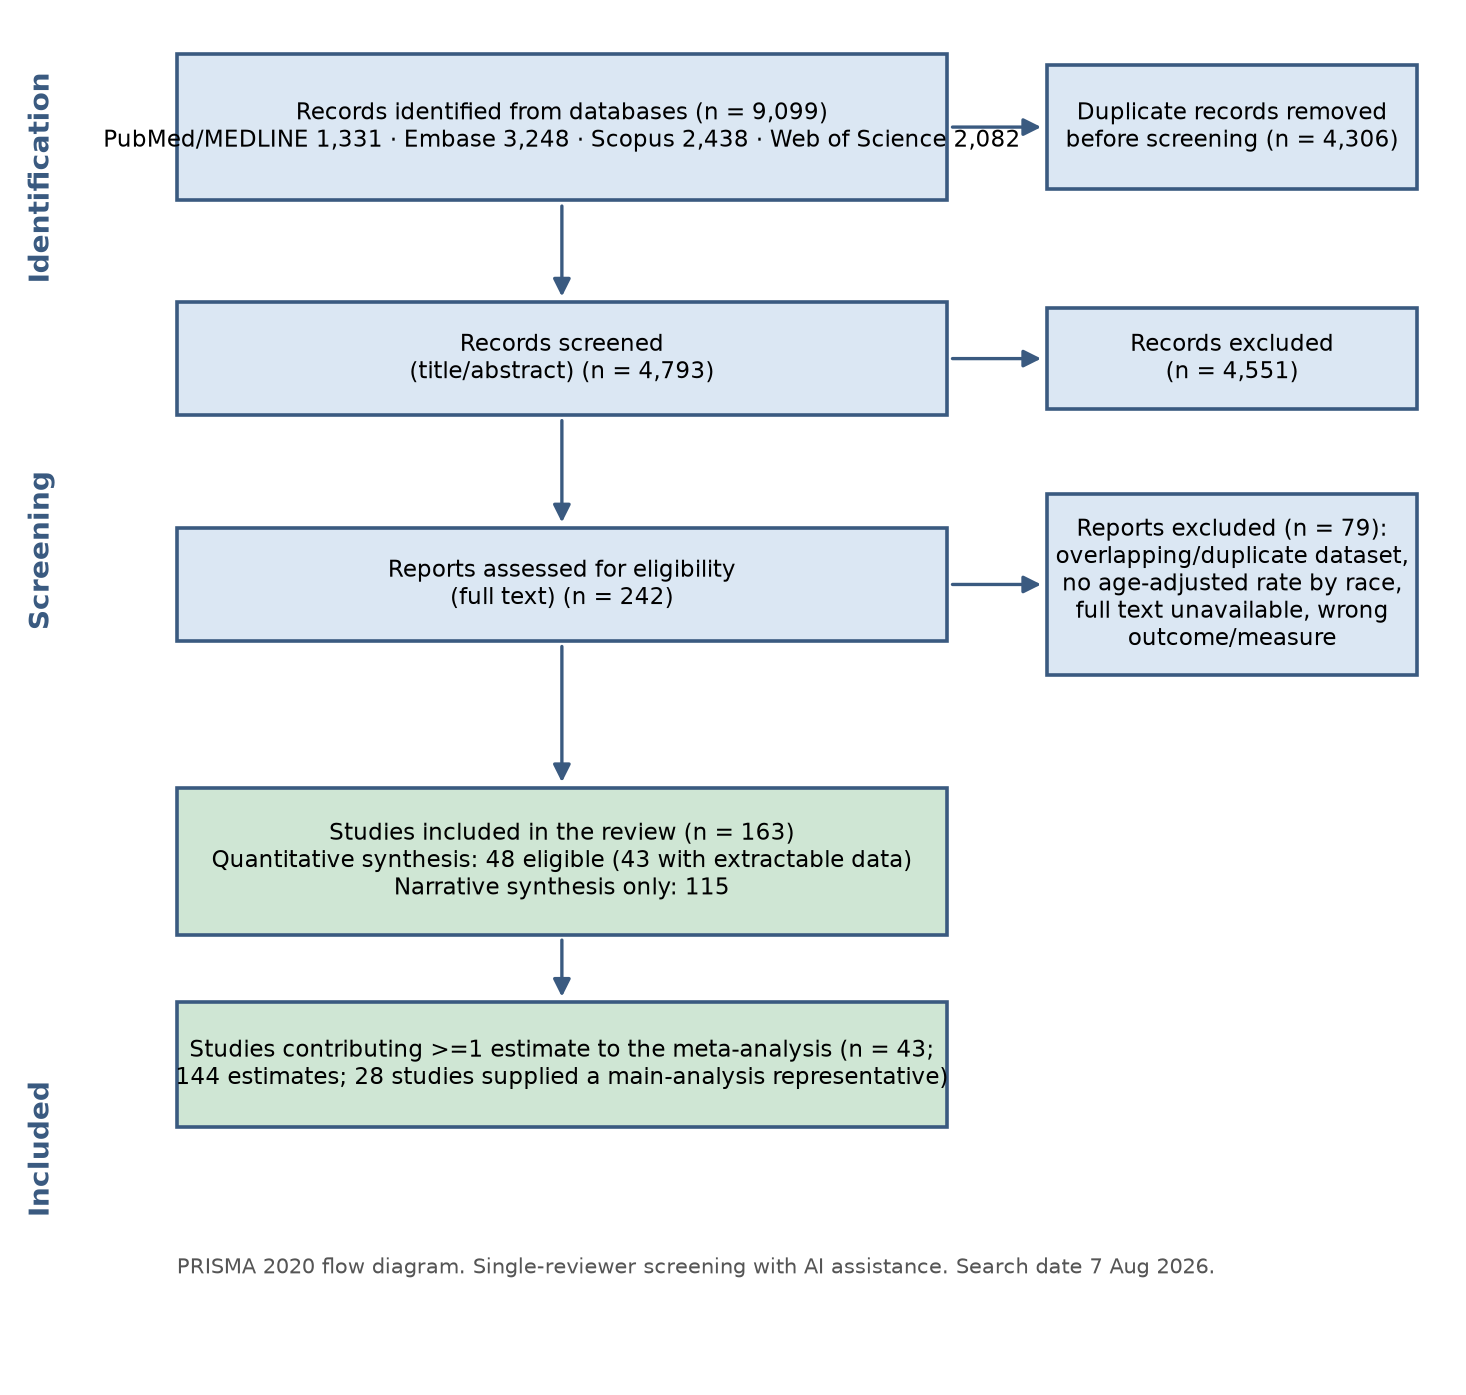
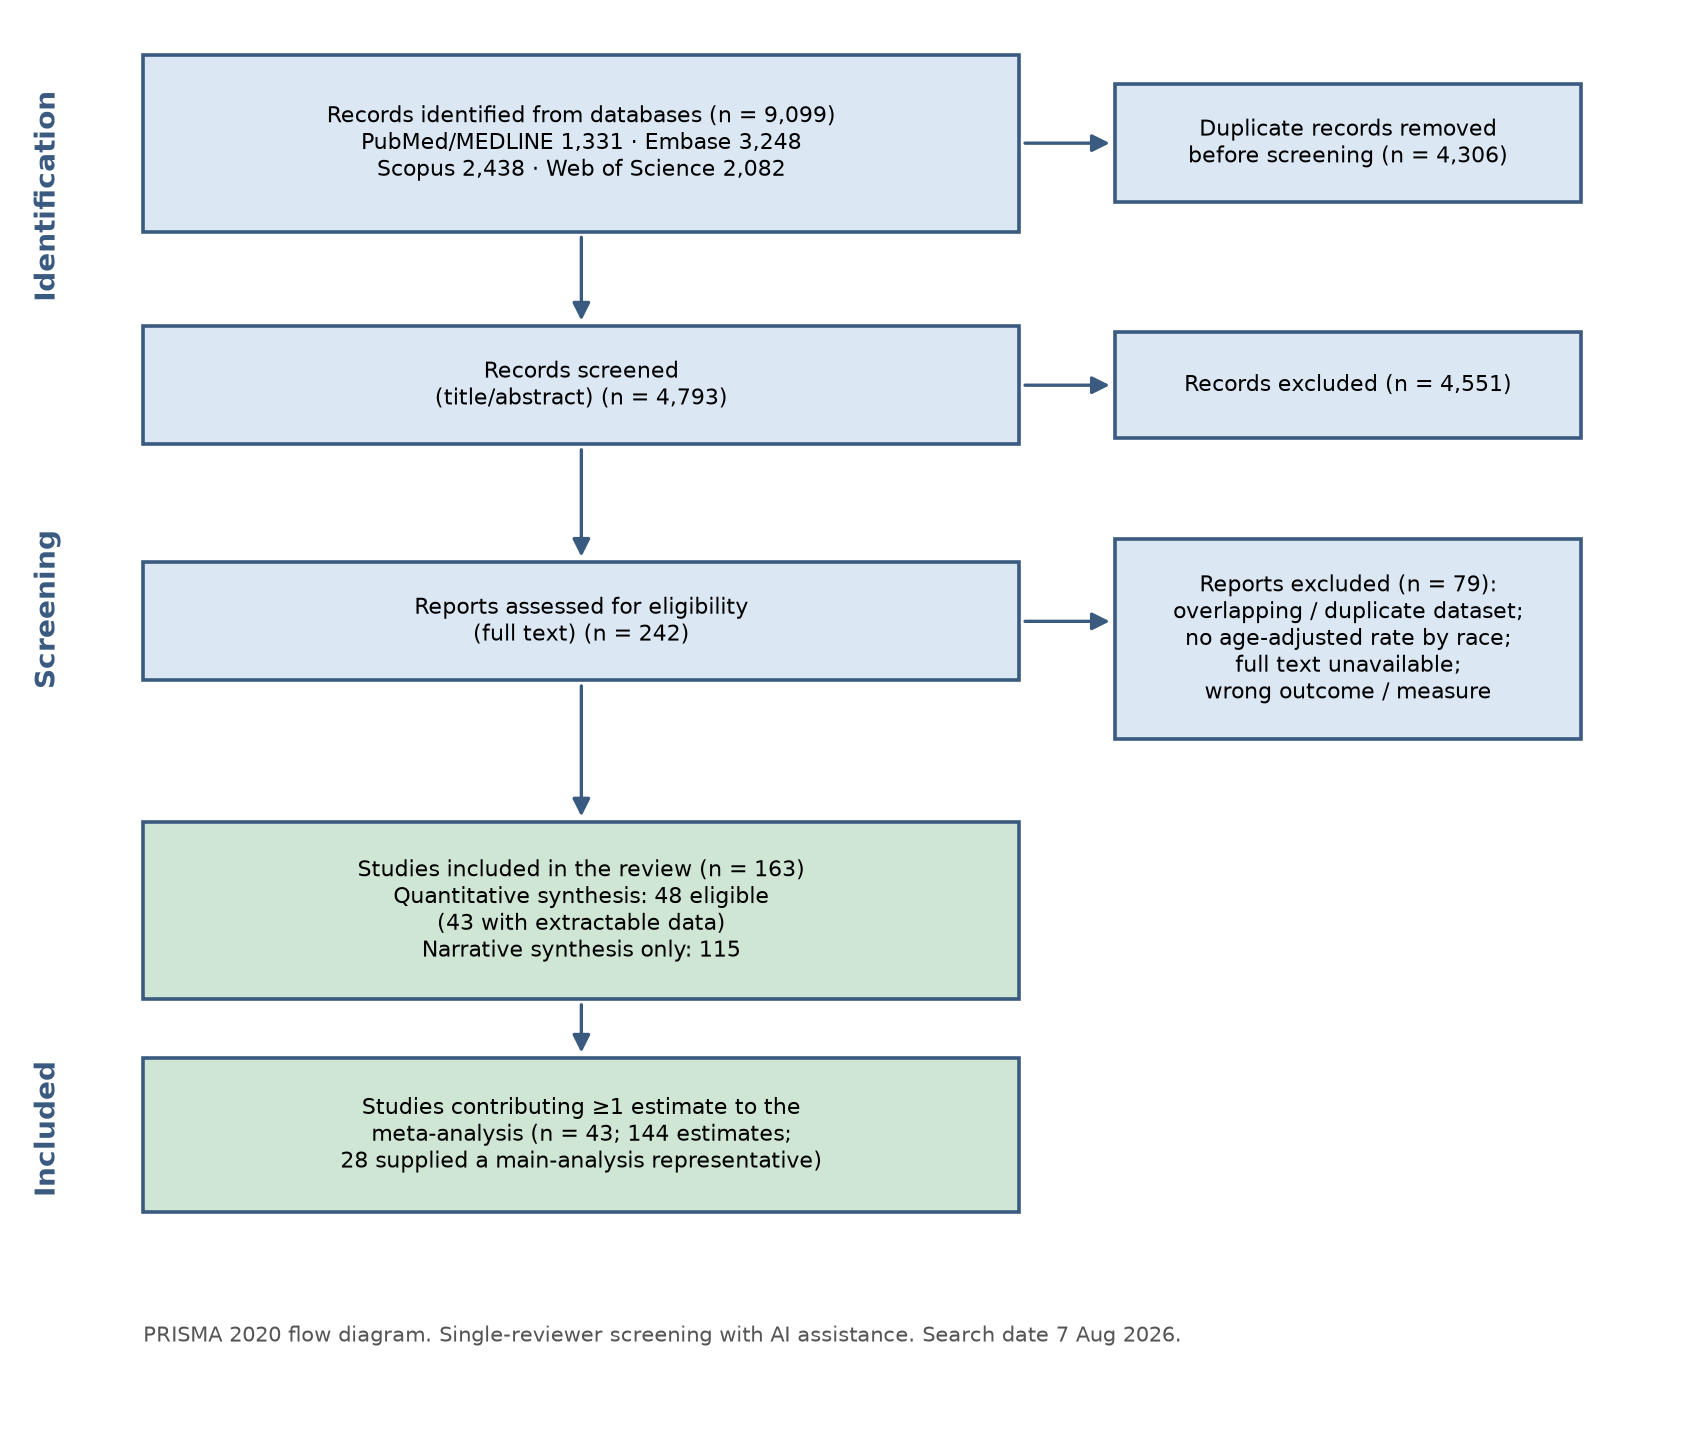
Fix PRISMA figure: wrap text inside boxes (no overflow)
Split the database-breakdown line to two rows, widened boxes/figure, reduced
font, used the >= glyph, and gave the exclusion and included boxes more height so
all text stays within box borders.

Claude-Session: https://claude.ai/code/session_01CuLT4FKRBtsU22Vwfjj2qn

diff --git a/meta_agents/search_v2/prisma_flow.py b/meta_agents/search_v2/prisma_flow.py
@@ -26,48 +26,54 @@ def arrow(ax, x1, y1, x2, y2):
 
 
 def main():
-    fig, ax = plt.subplots(figsize=(9.2, 8.8))
-    ax.set_xlim(0, 10); ax.set_ylim(0, 12); ax.axis("off")
+    fig, ax = plt.subplots(figsize=(10.6, 9.2))
+    ax.set_xlim(0, 12); ax.set_ylim(0, 12); ax.axis("off")
 
     # stage labels (left rotated)
-    for y, lab in [(10.6, "Identification"), (7.3, "Screening"), (2.0, "Included")]:
-        ax.text(0.15, y, lab, rotation=90, va="center", ha="center",
+    for y, lab in [(10.5, "Identification"), (7.0, "Screening"), (2.6, "Included")]:
+        ax.text(0.2, y, lab, rotation=90, va="center", ha="center",
                 fontsize=10, fontweight="bold", color=EDGE)
 
     # main column x, right column x
-    mx, mw = 1.1, 5.4
-    rx, rw = 7.2, 2.6
+    mx, mw = 0.9, 6.4
+    rx, rw = 8.0, 3.4
+    FS = 8.0
 
-    box(ax, mx, 10.4, mw, 1.3,
-        "Records identified from databases (n = 9,099)\n"
-        "PubMed/MEDLINE 1,331 · Embase 3,248 · Scopus 2,438 · Web of Science 2,082")
-    box(ax, rx, 10.5, rw, 1.1, "Duplicate records removed\nbefore screening (n = 4,306)")
-    arrow(ax, mx + mw, 11.05, rx, 11.05)
+    def b(x, y, w, h, t, fc=BLUE):
+        ax.add_patch(Rectangle((x, y), w, h, facecolor=fc, edgecolor=EDGE, lw=1.3, zorder=2))
+        ax.text(x + w / 2, y + h / 2, t, ha="center", va="center", fontsize=FS, zorder=3)
 
-    box(ax, mx, 8.5, mw, 1.0, "Records screened\n(title/abstract) (n = 4,793)")
-    arrow(ax, mx + mw / 2, 10.4, mx + mw / 2, 9.5)
-    box(ax, rx, 8.55, rw, 0.9, "Records excluded\n(n = 4,551)")
-    arrow(ax, mx + mw, 9.0, rx, 9.0)
+    b(mx, 10.2, mw, 1.5,
+      "Records identified from databases (n = 9,099)\n"
+      "PubMed/MEDLINE 1,331 · Embase 3,248\n"
+      "Scopus 2,438 · Web of Science 2,082")
+    b(rx, 10.45, rw, 1.0, "Duplicate records removed\nbefore screening (n = 4,306)")
+    arrow(ax, mx + mw, 10.95, rx, 10.95)
 
-    box(ax, mx, 6.5, mw, 1.0, "Reports assessed for eligibility\n(full text) (n = 242)")
-    arrow(ax, mx + mw / 2, 8.5, mx + mw / 2, 7.5)
-    box(ax, rx, 6.2, rw, 1.6,
-        "Reports excluded (n = 79):\noverlapping/duplicate dataset,\nno age-adjusted rate by race,\nfull text unavailable, wrong\noutcome/measure")
-    arrow(ax, mx + mw, 7.0, rx, 7.0)
+    b(mx, 8.4, mw, 1.0, "Records screened\n(title/abstract) (n = 4,793)")
+    arrow(ax, mx + mw / 2, 10.2, mx + mw / 2, 9.4)
+    b(rx, 8.45, rw, 0.9, "Records excluded (n = 4,551)")
+    arrow(ax, mx + mw, 8.9, rx, 8.9)
 
-    box(ax, mx, 3.9, mw, 1.3,
-        "Studies included in the review (n = 163)\n"
-        "Quantitative synthesis: 48 eligible (43 with extractable data)\n"
-        "Narrative synthesis only: 115", fc="#cfe6d4")
-    arrow(ax, mx + mw / 2, 6.5, mx + mw / 2, 5.2)
+    b(mx, 6.4, mw, 1.0, "Reports assessed for eligibility\n(full text) (n = 242)")
+    arrow(ax, mx + mw / 2, 8.4, mx + mw / 2, 7.4)
+    b(rx, 5.9, rw, 1.7,
+      "Reports excluded (n = 79):\noverlapping / duplicate dataset;\nno age-adjusted rate by race;\n"
+      "full text unavailable;\nwrong outcome / measure")
+    arrow(ax, mx + mw, 6.9, rx, 6.9)
 
-    box(ax, mx, 2.2, mw, 1.1,
-        "Studies contributing >=1 estimate to the meta-analysis (n = 43;\n"
-        "144 estimates; 28 studies supplied a main-analysis representative)",
-        fc="#cfe6d4")
-    arrow(ax, mx + mw / 2, 3.9, mx + mw / 2, 3.3)
+    b(mx, 3.7, mw, 1.5,
+      "Studies included in the review (n = 163)\n"
+      "Quantitative synthesis: 48 eligible\n(43 with extractable data)\n"
+      "Narrative synthesis only: 115", fc="#cfe6d4")
+    arrow(ax, mx + mw / 2, 6.4, mx + mw / 2, 5.2)
 
-    ax.text(mx, 0.9, "PRISMA 2020 flow diagram. Single-reviewer screening with "
+    b(mx, 1.9, mw, 1.3,
+      "Studies contributing ≥1 estimate to the\nmeta-analysis (n = 43; 144 estimates;\n"
+      "28 supplied a main-analysis representative)", fc="#cfe6d4")
+    arrow(ax, mx + mw / 2, 3.7, mx + mw / 2, 3.2)
+
+    ax.text(mx, 0.8, "PRISMA 2020 flow diagram. Single-reviewer screening with "
             "AI assistance. Search date 7 Aug 2026.", fontsize=7.5, color="#555")
     fig.savefig(os.path.join(OUT, "Fig_PRISMA.png"), dpi=200, bbox_inches="tight")
     plt.close(fig)
